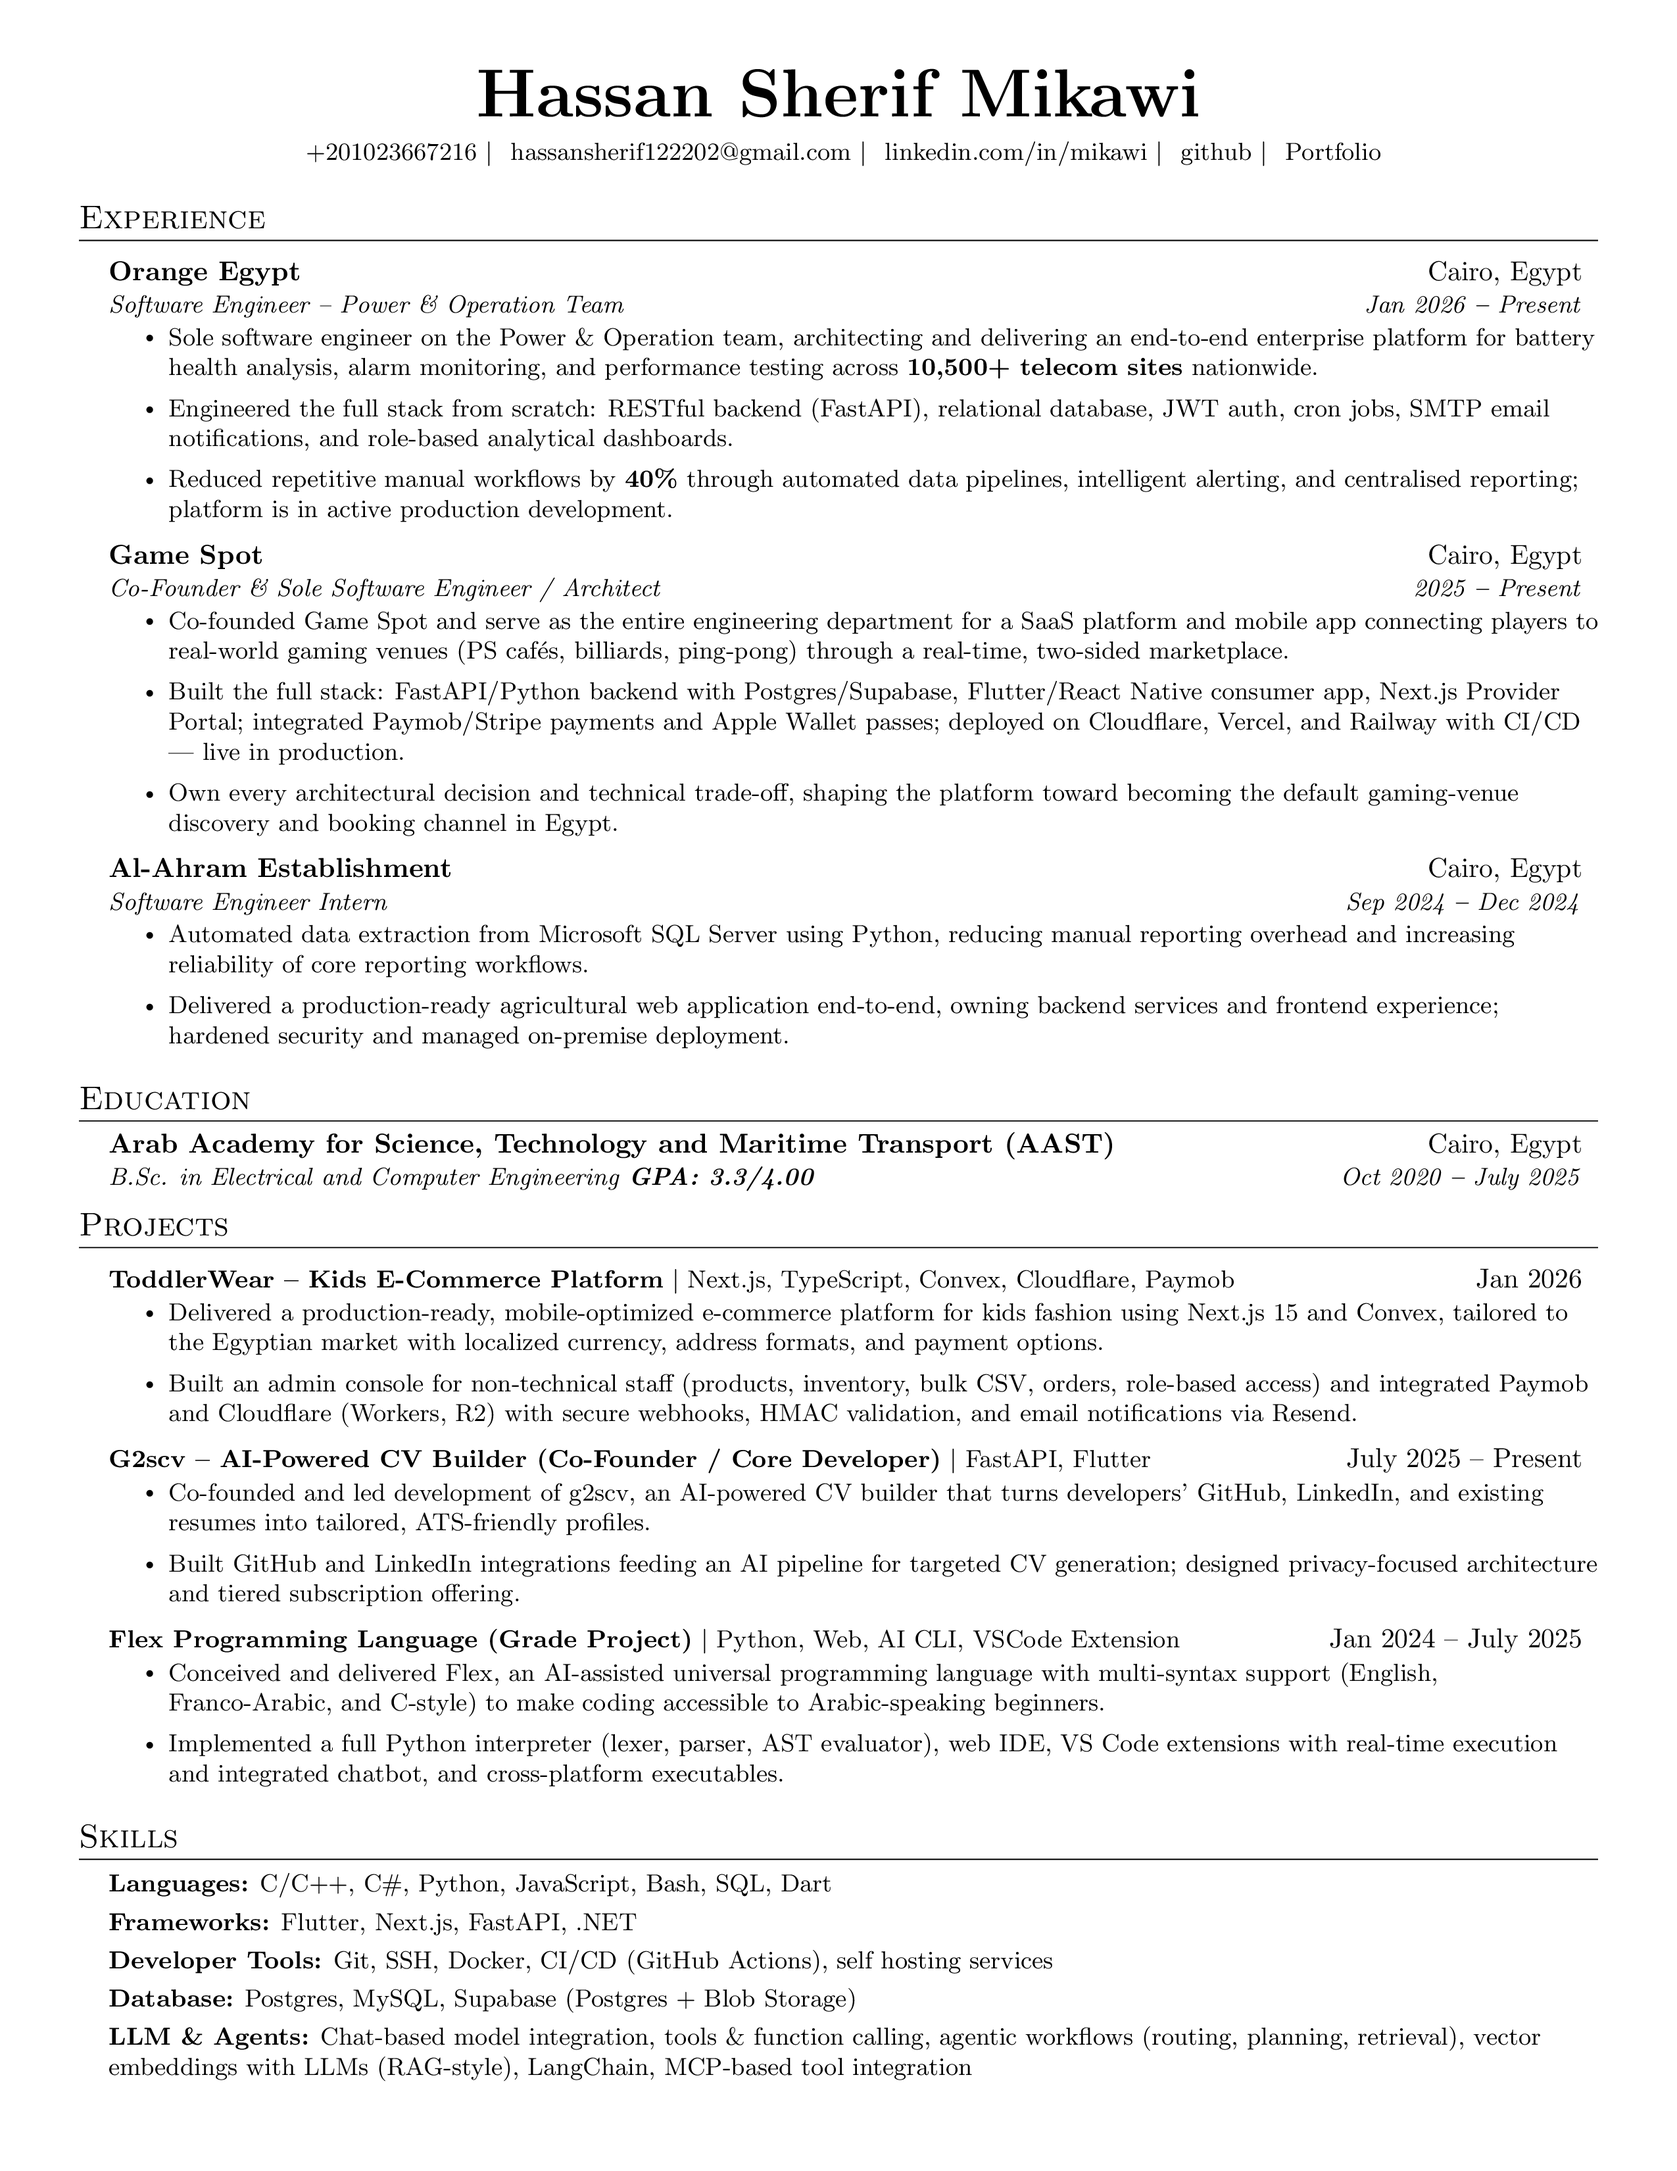
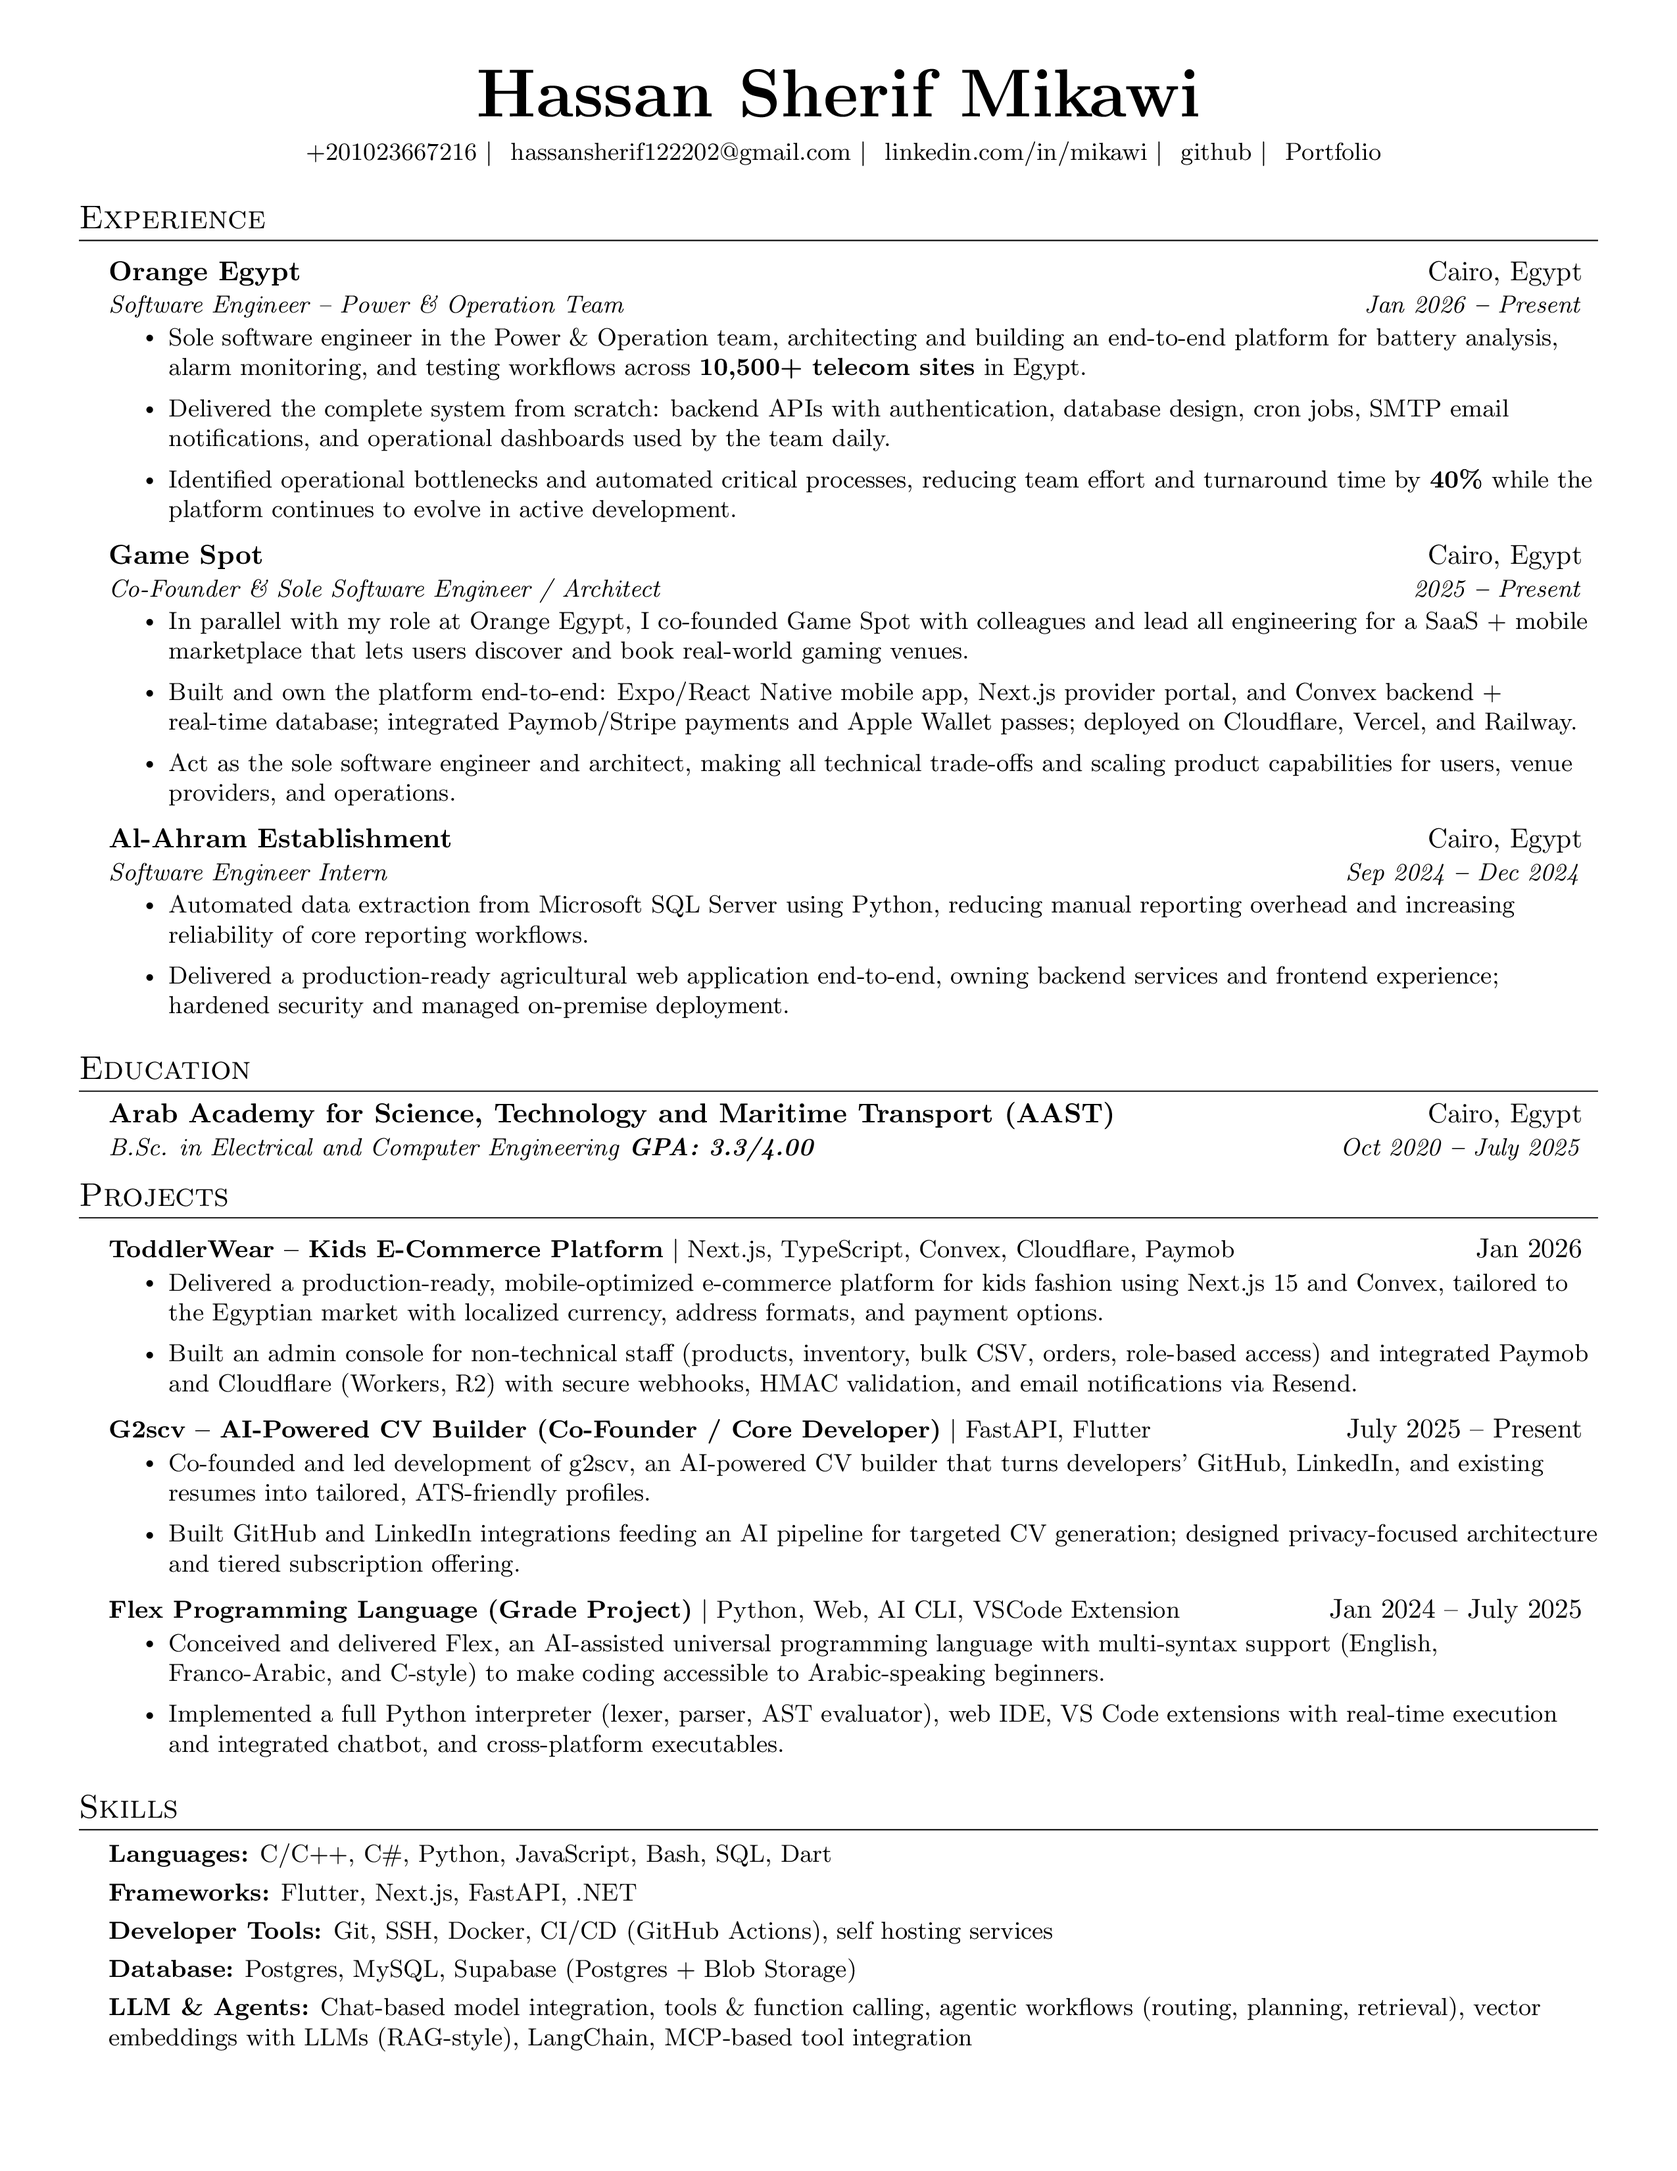
Update Experience section for Orange Egypt and Game Spot
Agent-Logs-Url: https://github.com/Hassan220022/cv_mikawi/sessions/08b80281-1607-4e74-bada-5cda414c0536

diff --git a/mikawi_CV.tex b/mikawi_CV.tex
@@ -151,18 +151,18 @@
       {\href{https://www.linkedin.com/company/orange-egypt/}{Orange Egypt}}{Cairo, Egypt}
       {Software Engineer – Power \& Operation Team}{Jan 2026 \textbf{--} Present}
         \resumeItemListStart
-          \resumeItem{Sole software engineer on the Power \& Operation team, architecting and delivering an end-to-end enterprise platform for battery health analysis, alarm monitoring, and performance testing across \textbf{10,500+ telecom sites} nationwide.}
-          \resumeItem{Engineered the full stack from scratch: RESTful backend (FastAPI), relational database, JWT auth, cron jobs, SMTP email notifications, and role-based analytical dashboards.}
-          \resumeItem{Reduced repetitive manual workflows by \textbf{40\%} through automated data pipelines, intelligent alerting, and centralised reporting; platform is in active production development.}
+          \resumeItem{Sole software engineer in the Power \& Operation team, architecting and building an end-to-end platform for battery analysis, alarm monitoring, and testing workflows across \textbf{10,500+ telecom sites} in Egypt.}
+          \resumeItem{Delivered the complete system from scratch: backend APIs with authentication, database design, cron jobs, SMTP email notifications, and operational dashboards used by the team daily.}
+          \resumeItem{Identified operational bottlenecks and automated critical processes, reducing team effort and turnaround time by \textbf{40\%} while the platform continues to evolve in active development.}
         \resumeItemListEnd
 
     \resumeSubheading
       {Game Spot}{Cairo, Egypt}
       {Co-Founder \& Sole Software Engineer / Architect}{2025 \textbf{--} Present}
         \resumeItemListStart
-          \resumeItem{Co-founded Game Spot and serve as the entire engineering department for a SaaS platform and mobile app connecting players to real-world gaming venues (PS cafés, billiards, ping-pong) through a real-time, two-sided marketplace.}
-          \resumeItem{Built the full stack: FastAPI/Python backend with Postgres/Supabase, Flutter/React Native consumer app, Next.js Provider Portal; integrated Paymob/Stripe payments and Apple Wallet passes; deployed on Cloudflare, Vercel, and Railway with CI/CD — live in production.}
-          \resumeItem{Own every architectural decision and technical trade-off, shaping the platform toward becoming the default gaming-venue discovery and booking channel in Egypt.}
+          \resumeItem{In parallel with my role at Orange Egypt, I co-founded Game Spot with colleagues and lead all engineering for a SaaS + mobile marketplace that lets users discover and book real-world gaming venues.}
+          \resumeItem{Built and own the platform end-to-end: Expo/React Native mobile app, Next.js provider portal, and Convex backend + real-time database; integrated Paymob/Stripe payments and Apple Wallet passes; deployed on Cloudflare, Vercel, and Railway.}
+          \resumeItem{Act as the sole software engineer and architect, making all technical trade-offs and scaling product capabilities for users, venue providers, and operations.}
         \resumeItemListEnd
 
     \resumeSubheading
@@ -206,10 +206,10 @@
 
     
 \resumeProjectHeading
-  {\textbf{\href{https://g2scv.live}{G2scv \textendash{} AI-Powered CV Builder (Co\nobreakdash-Founder / Core Developer)}} $|$ {FastAPI, Flutter}}
+  {\textbf{\href{https://g2scv.live}{G2scv \textendash{} AI-Powered CV Builder (Co-Founder / Core Developer)}} $|$ {FastAPI, Flutter}}
   {July 2025 -- Present}
           \resumeItemListStart
-            \resumeItem{Co\nobreakdash-founded and led development of g2scv, an AI-powered CV builder that turns developers\textquoteright{} GitHub, LinkedIn, and existing resumes into tailored, ATS-friendly profiles.}
+            \resumeItem{Co-founded and led development of g2scv, an AI-powered CV builder that turns developers\textquoteright{} GitHub, LinkedIn, and existing resumes into tailored, ATS-friendly profiles.}
             \resumeItem{Built GitHub and LinkedIn integrations feeding an AI pipeline for targeted CV generation; designed privacy-focused architecture and tiered subscription offering.}
           \resumeItemListEnd
 
@@ -217,7 +217,7 @@
   {\textbf{\href{https://github.com/Flex-Language}{Flex Programming Language (Grade Project)}} $|$ {Python, Web, AI CLI, VSCode Extension}}
   {Jan 2024 -- July 2025}
         \resumeItemListStart
-        \resumeItem{Conceived and delivered Flex, an AI-assisted universal programming language with multi-syntax support (English, Franco\nobreakdash-Arabic, and C\nobreakdash-style) to make coding accessible to Arabic-speaking beginners.}
+        \resumeItem{Conceived and delivered Flex, an AI-assisted universal programming language with multi-syntax support (English, Franco-Arabic, and C-style) to make coding accessible to Arabic-speaking beginners.}
         \resumeItem{Implemented a full Python interpreter (lexer, parser, AST evaluator), web IDE, VS Code extensions with real-time execution and integrated chatbot, and cross-platform executables.}
         \resumeItemListEnd
       % \resumeProjectHeading
@@ -278,6 +278,7 @@
     \textbf{Developer Tools:} Git, SSH, Docker, CI/CD (GitHub Actions), self hosting services\\[3pt]
     \textbf{Database:} Postgres, MySQL, Supabase (Postgres + Blob Storage) \\[3pt]
     \textbf{LLM \& Agents:} Chat-based model integration, tools \& function calling, agentic workflows (routing, planning, retrieval), vector embeddings with LLMs (RAG-style), LangChain, MCP-based tool integration
+    }}
 
   \resumeSubHeadingListEnd
 
